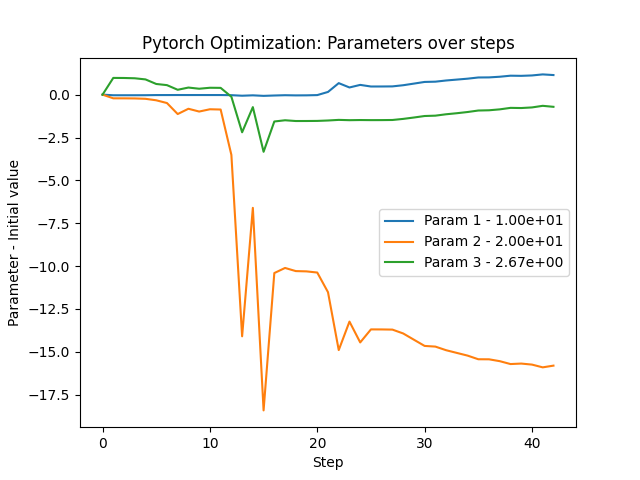
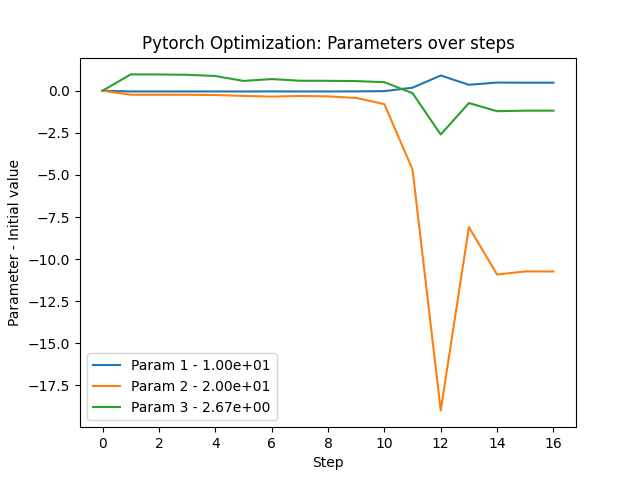
Now running all optimizers, but no history from JAX

diff --git a/optimizers.py b/optimizers.py
@@ -14,12 +14,14 @@ import jaxopt
 # Import solvers, parameters and models from separate files
 from params_and_model import (ODEFunc, a_initial, tol_optimization, max_nfev_optimization, tmin, tmax, nt,
                               delta_jacobian_scipy, initial_conditions, x_target, x_to_optimize,
-                              learning_rate_torch, learning_rate_jax, n_steps_to_compute_loss)
+                              learning_rate_torch, learning_rate_jax, n_steps_to_compute_loss,
+                              use_scipy_torch, use_scipy_jax, step_optimization_verbose)
 from solver import solve_with_scipy, solve_with_pytorch, solve_with_jax
 num_functions = len(initial_conditions)  # assuming number of functions is the same as the length of initial conditions
+t_torch = torch.linspace(tmin, tmax, nt)
 
-def optimization_function_scipy(objective):
-    return minimize(objective, a_initial, jac=True, method='L-BFGS-B', options={'maxiter': max_nfev_optimization, 'gtol':tol_optimization}, tol=tol_optimization)
+def optimization_function_scipy(objective, method='L-BFGS-B'):
+    return minimize(objective, a_initial, jac=True, method=method, options={'maxiter': max_nfev_optimization, 'gtol':tol_optimization}, tol=tol_optimization)
 
 def save_results(losses, parameters, optimized_a, optimizer_name, results_path, time):
 
@@ -32,16 +34,18 @@ def save_results(losses, parameters, optimized_a, optimizer_name, results_path, 
     plt.legend()
     plt.savefig(os.path.join(results_path, f'{optimizer_name}_parameters.png'))
 
-    print(f'Final results with {optimizer_name} in {len(losses)} steps and {time:.4e} seconds:')
-    print(f'  Parameters: {", ".join([f"{val:.4e}" for val in optimized_a])}')
-    print(f'  Loss: {losses[-1]:.4e}')
+    print(f'  Results with {optimizer_name} in {len(losses)} steps and {time:.4e} seconds:')
+    print(f'    Parameters: {", ".join([f"{val:.4e}" for val in optimized_a])}')
+    print(f'    Loss: {losses[-1]:.4e}')
 
 
 # Perform the optimization using SciPy
 def optimize_with_scipy(results_path):
+    print('SciPy optimization')
     losses = []
     parameters = []
-    def objective(a):
+    def objective(a, info={'Nfeval':0}):
+        initial_time = time.time()
         solution = solve_with_scipy(a)
         final_state = solution[-n_steps_to_compute_loss:, x_to_optimize]-x_target
         loss = np.sum(np.square(final_state))
@@ -54,6 +58,9 @@ def optimize_with_scipy(results_path):
             grad[i] = (loss_new - loss) / delta_jacobian_scipy
         losses.append(loss)
         parameters.append(a)
+        if step_optimization_verbose:
+            print('  step =', info['Nfeval'], f'loss = {loss.item():.3e} a =', a, f'took {(time.time()-initial_time):.3e} seconds')
+        info['Nfeval'] += 1
         return loss, grad
     
     # Compute the Jacobian using finite differences
@@ -81,7 +88,6 @@ def optimize_with_scipy(results_path):
 
     start_time = time.time()
     result = optimization_function_scipy(objective)
-    # result = minimize(objective, a_initial, jac=True, method='L-BFGS-B', options={'maxiter': max_nfev_optimization, 'gtol':tol_optimization}, tol=tol_optimization)#, callback=callback_minimize)
     # result = least_squares(residuals, a_initial, gtol=tol_optimization, max_nfev=max_nfev_optimization, verbose=0, jac=jacobian_central_differences)
     optimized_a = result.x
     elapsed_time = time.time() - start_time
@@ -91,49 +97,60 @@ def optimize_with_scipy(results_path):
 
 # Perform the optimization using PyTorch
 def optimize_with_pytorch(results_path):
+    print('PyTorch optimization')
     a_torch = torch.tensor(a_initial, requires_grad=True) 
     ode_system = ODEFunc(a_torch)
     losses = []
     parameters = []
     start_time = time.time()
 
-    ### USING PYTORCH OPTIMIZER ###
-    # # optimizer = torch.optim.RMSprop(ode_system.parameters(), lr=learning_rate_torch)
-    # # optimizer = torch.optim.SGD(ode_system.parameters(), lr=learning_rate_torch)
-    # # optimizer = torch.optim.Adam(ode_system.parameters(), lr=learning_rate_torch)
-    # optimizer = torch.optim.LBFGS(ode_system.parameters(), lr=learning_rate_torch)
-    # # scheduler = torch.optim.lr_scheduler.ReduceLROnPlateau(optimizer, 'min', patience=1, factor=0.5)
-    # # scheduler = torch.optim.lr_scheduler.ExponentialLR(optimizer, gamma=0.9)
+    if use_scipy_torch:
+        ### USING SCIPY ###
+        def objective(a, info={'Nfeval':0}):
+            initial_time = time.time()
+            ode_system.a.data = torch.tensor(a, requires_grad=True)
+            solution_torch = solve_with_pytorch(a, ode_system)
+            loss = torch.sum(torch.square(solution_torch[-n_steps_to_compute_loss:, x_to_optimize]-x_target))
+            grads = torch.autograd.grad(loss, ode_system.a)
+            loss_numpy = float(loss.detach().numpy())
+            grads_numpy = np.array(grads[0].detach().numpy(), dtype=np.float64)
+            losses.append(loss_numpy)
+            parameters.append(a)
+            if step_optimization_verbose:
+                print('  step =', info['Nfeval'], f'loss = {loss.item():.3e} a =', a, f'took {(time.time()-initial_time):.3e} seconds')
+            info['Nfeval'] += 1
+            return loss_numpy, grads_numpy
+        result = optimization_function_scipy(objective)
+    else:
+        ### USING PYTORCH OPTIMIZER ###
+        # optimizer = torch.optim.RMSprop(ode_system.parameters(), lr=learning_rate_torch)
+        # optimizer = torch.optim.SGD(ode_system.parameters(), lr=learning_rate_torch)
+        # optimizer = torch.optim.Adam(ode_system.parameters(), lr=learning_rate_torch)
+        # optimizer = torch.optim.LBFGS(ode_system.parameters(), lr=learning_rate_torch, max_iter=2, max_eval=3, tolerance_grad=1e-1, tolerance_change=1e-1, history_size=15, line_search_fn='strong_wolfe')
+        # optimizer = torch.optim.RMSprop(ode_system.parameters(), lr=learning_rate_torch)
+        optimizer = torch.optim.Adam(ode_system.parameters(), lr=learning_rate_torch)
+        # scheduler = torch.optim.lr_scheduler.ReduceLROnPlateau(optimizer, 'min', patience=1, factor=0.5)
+        scheduler = torch.optim.lr_scheduler.ExponentialLR(optimizer, gamma=0.9)
 
-    # for step in range(max_nfev_optimization):
-    #     def closure():
-    #         optimizer.zero_grad()
-    #         solution_torch = solve_with_pytorch(a_torch.detach().numpy(), ode_system)
-    #         loss = torch.sum(torch.square(solution_torch[-n_steps_to_compute_loss:, x_to_optimize]-x_target))
-    #         loss.backward()
-    #         return loss
-
-    #     loss = optimizer.step(closure)
-    #     # scheduler.step(loss)
-    #     # scheduler.step()
-    #     params = ode_system.a.detach().numpy().copy()
-    #     losses.append(loss.item())
-    #     parameters.append(params)
-    #     if step > 4 and (losses[-2] - losses[-1])/losses[-2] < tol_optimization:
-    #         break
-
-    ### USING SCIPY ###
-    def objective(a):
-        solution_torch = solve_with_pytorch(a, ode_system)
-        loss = torch.sum(torch.square(solution_torch[-n_steps_to_compute_loss:, x_to_optimize]-x_target))
-        grads = torch.autograd.grad(loss, ode_system.a)
-        loss_numpy = float(loss.detach().numpy())
-        grads_numpy = np.array(grads[0].detach().numpy(), dtype=np.float64)
-        losses.append(loss_numpy)
-        parameters.append(a)
-        return loss_numpy, grads_numpy
-    result = optimization_function_scipy(objective)
-    # result = minimize(objective, a_initial, jac=True, method='L-BFGS-B', options={'maxiter': max_nfev_optimization, 'gtol':tol_optimization}, tol=tol_optimization)#, callback=callback_minimize)
+        def closure():
+            optimizer.zero_grad()
+            solution_torch = torch_odeint(ode_system, ode_system.a, t_torch)
+            loss = torch.sum(torch.square(solution_torch[-n_steps_to_compute_loss:, x_to_optimize]-x_target))
+            loss.backward()
+            # print('a =',ode_system.a.detach().numpy(), 'loss =', loss.item())
+            return loss
+        for step in range(max_nfev_optimization):
+            initial_time = time.time()
+            loss = optimizer.step(closure)
+            # scheduler.step(loss)
+            scheduler.step()
+            params = ode_system.a.detach().numpy().copy()
+            losses.append(loss.item())
+            parameters.append(params)
+            if step_optimization_verbose:
+                print('  step =', step, f'loss = {loss.item():.3e} a =', params, f'took {(time.time()-initial_time):.3e} seconds')
+            if step > 4 and np.abs(losses[-2] - losses[-1])/losses[-2] < tol_optimization:
+                break
 
     ### SAVE RESULTS ###
     optimized_a = ode_system.a.detach().numpy().copy()
@@ -144,54 +161,59 @@ def optimize_with_pytorch(results_path):
 
 # Perform the optimization using JAX
 def optimize_with_jax(results_path):
+    print('JAX optimization')
     def loss_fn(a):
         solution_jax = solve_with_jax(a)
         loss = jnp.sum(jnp.square(solution_jax[-n_steps_to_compute_loss:,x_to_optimize]-x_target))
         return loss
-    a_initial_jax = jnp.array(a_initial, dtype=jnp.float64)
+    a_initial_jax = jnp.array(a_initial)#, dtype=jnp.float64)
     loss_fn_jit = jit(loss_fn)
     losses=[loss_fn_jit(a_initial)]
     parameters=[a_initial_jax]
     start_time = time.time()
 
-    ### USING OPTAX ###
-    # grad_loss_fn_jit = jit(grad(loss_fn))
-    # # optimizer = optax.adabelief(learning_rate_jax)
-    # warmup_cosine_decay_scheduler = optax.warmup_cosine_decay_schedule(init_value=learning_rate_jax, peak_value=learning_rate_jax*3,
-    #                                                                 warmup_steps=int(max_nfev_optimization*0.1),
-    #                                                                 decay_steps=max_nfev_optimization, end_value=learning_rate_jax/5)
-    # optimizer = optax.rmsprop(learning_rate=warmup_cosine_decay_scheduler)#learning_rate_jax)
-    # optimizer_state = optimizer.init(a_initial_jax)
-    # params = a_initial_jax
-    # for step in range(max_nfev_optimization):
-    #     # loss, grads = loss_grad_fn(params)
-    #     grads = grad_loss_fn_jit(params)
-    #     updates, optimizer_state = optimizer.update(grads, optimizer_state)
-    #     params = optax.apply_updates(params, updates)
-    #     loss = loss_fn_jit(params)
-    #     losses.append(loss)
-    #     parameters.append(params)
-    #     if step > 3 and np.abs(losses[-2] - losses[-1])/losses[-2] < tol_optimization:
-    #         break
+    if use_scipy_jax:
+        ### USING SCIPY ###
+        losses = []
+        parameters = []
+        loss_grad_fn = jit(value_and_grad(loss_fn))
+        def objective(a):
+            loss, grads = loss_grad_fn(a)
+            losses.append(loss)
+            parameters.append(a)
+            return loss, grads
+        result = optimization_function_scipy(objective)
+    else:
+        ### USING OPTAX ###
+        # grad_loss_fn_jit = jit(grad(loss_fn))
+        # # optimizer = optax.adabelief(learning_rate_jax)
+        # warmup_cosine_decay_scheduler = optax.warmup_cosine_decay_schedule(init_value=learning_rate_jax, peak_value=learning_rate_jax*3,
+        #                                                                 warmup_steps=int(max_nfev_optimization*0.1),
+        #                                                                 decay_steps=max_nfev_optimization, end_value=learning_rate_jax/5)
+        # optimizer = optax.rmsprop(learning_rate=warmup_cosine_decay_scheduler)#learning_rate_jax)
+        # optimizer_state = optimizer.init(a_initial_jax)
+        # params = a_initial_jax
+        # for step in range(max_nfev_optimization):
+        #     # loss, grads = loss_grad_fn(params)
+        #     grads = grad_loss_fn_jit(params)
+        #     updates, optimizer_state = optimizer.update(grads, optimizer_state)
+        #     params = optax.apply_updates(params, updates)
+        #     loss = loss_fn_jit(params)
+        #     losses.append(loss)
+        #     parameters.append(params)
+        #     if step > 3 and np.abs(losses[-2] - losses[-1])/losses[-2] < tol_optimization:
+        #         break
 
-    ### USING JAXOPT ###
-    # loss_grad_fn = jit(value_and_grad(loss_fn))
-    # optimizer = jaxopt.LBFGS(loss_grad_fn, value_and_grad=True, maxiter=max_nfev_optimization, tol=tol_optimization)
-    # params, state = optimizer.run(a_initial_jax)
-    # losses = [loss_fn_jit(a_initial),loss_fn_jit(params)]
-    # parameters = [a_initial, params]
-
-    ### USING SCIPY ###
-    losses = []
-    parameters = []
-    loss_grad_fn = jit(value_and_grad(loss_fn))
-    def objective(a):
-        loss, grads = loss_grad_fn(a)
-        losses.append(loss)
-        parameters.append(a)
-        return loss, grads
-    result = optimization_function_scipy(objective)
-    # result = minimize(objective, a_initial, jac=True, method='L-BFGS-B', options={'maxiter': max_nfev_optimization, 'gtol':tol_optimization}, tol=tol_optimization)#, callback=callback_minimize)
+        ### USING JAXOPT ###
+        loss_grad_fn = jit(value_and_grad(loss_fn))
+        # optimizer = jaxopt.LBFGS(loss_grad_fn, value_and_grad=True, maxiter=max_nfev_optimization, tol=tol_optimization)
+        # optimizer = jaxopt.GradientDescent(loss_grad_fn, value_and_grad=True, maxiter=max_nfev_optimization, tol=tol_optimization)
+        # optimizer = jaxopt.NonlinearCG(loss_grad_fn, value_and_grad=True, maxiter=max_nfev_optimization)#, maxiter=max_nfev_optimization, tol=tol_optimization)
+        # optimizer = jaxopt.ScipyMinimize(fun=loss_fn_jit, method='Newton-CG', tol=tol_optimization,maxiter=max_nfev_optimization, jit=True)#, options={'jac':True})
+        optimizer = jaxopt.ScipyMinimize(fun=loss_fn_jit, method='L-BFGS-B', tol=tol_optimization,maxiter=max_nfev_optimization, jit=True)#, options={'jac':True})
+        params, state = optimizer.run(a_initial_jax)
+        losses = [loss_fn_jit(a_initial),loss_fn_jit(params)]
+        parameters = [a_initial, params]
 
     ### SAVE RESULTS ###
     optimized_a = parameters[-1]

diff --git a/params_and_model.py b/params_and_model.py
@@ -5,16 +5,20 @@ import numpy as np
 initial_conditions = [5., 5., 5.]
 a_initial = [10., 20., 8./3.]  # sigma, rho, beta
 tmin = 0
-tmax = 9
-nt_per_time_unit = 50
-n_steps_to_compute_loss = 100
-x_target = 2.5
+tmax = 13
+nt_per_time_unit = 80
+n_steps_to_compute_loss = 200
+x_target = 3.5
 x_to_optimize = 0 # optimize x0
-delta_jacobian_scipy = 1e-6
+delta_jacobian_scipy = 1e-5
 tol_optimization = 1e-3
-max_nfev_optimization = 50
-learning_rate_torch = 0.05
-learning_rate_jax = 0.5
+max_nfev_optimization = 20
+learning_rate_torch = 0.4
+learning_rate_jax = 0.2
+use_scipy_torch = True
+use_scipy_jax = False
+
+step_optimization_verbose = False
 
 nt = int(nt_per_time_unit * (tmax - tmin))
 n_steps_to_compute_loss = np.min([n_steps_to_compute_loss, nt])

diff --git a/solver.py b/solver.py
@@ -33,7 +33,6 @@ def solve_with_pytorch(a=None, odefunc=None):
     t_torch = torch.linspace(tmin, tmax, nt)
     if odefunc is not None:
         ode_system = odefunc
-        ode_system.a.data = a_torch
     else:
         ode_system = ODEFunc(a_torch)
     solution_torch = torch_odeint(ode_system, initial_conditions_torch, t_torch, method='rk4')
@@ -41,7 +40,7 @@ def solve_with_pytorch(a=None, odefunc=None):
 
 # Solve the ODE using JAX
 def solve_with_jax(a=None):
-    initial_conditions_jax = jnp.array(initial_conditions, dtype=jnp.float64)
+    initial_conditions_jax = jnp.array(initial_conditions)#, dtype=jnp.float64)
     if a is not None:
         a_jax = a
     else:

diff --git a/main_diffopt.py b/main_diffopt.py
@@ -4,8 +4,8 @@ from pathlib import Path
 import matplotlib.pyplot as plt
 from mpl_toolkits.mplot3d import Axes3D
 
-from jax.config import config
-config.update("jax_enable_x64", True)
+# from jax.config import config
+# config.update("jax_enable_x64", True)
 
 from params_and_model import tmin, tmax, nt, a_initial, initial_conditions
 from solver import solve_with_scipy, solve_with_pytorch, solve_with_jax
